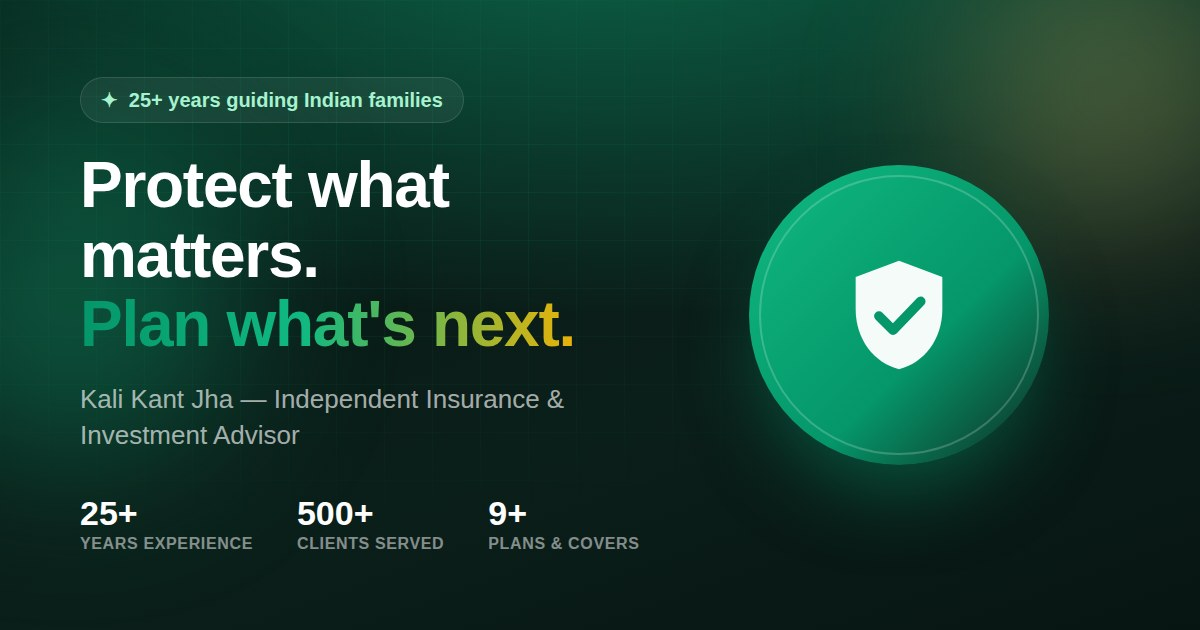
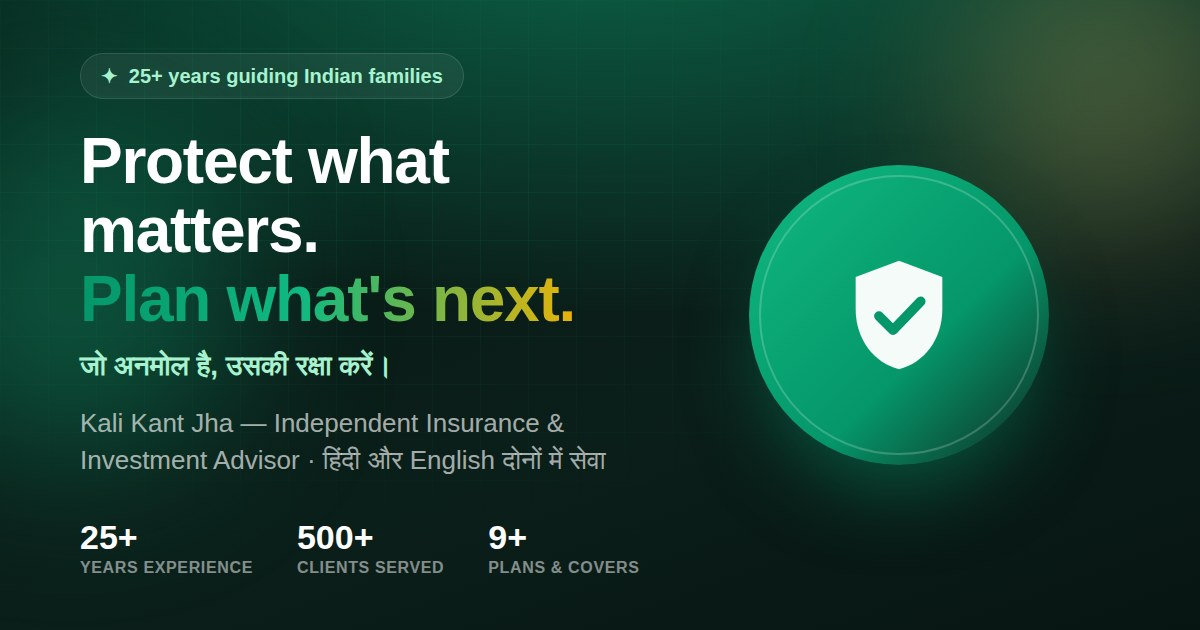
Enhance bilingual support and update layout components
- Updated metadata description to include language support for Hindi and English.
- Added Hindi text snippets across various components for improved accessibility.
- Enhanced About, Contact, Hero, Services, TrustBar, and WhyUs components with Hindi translations.
- Adjusted layout styles for better responsiveness and user experience.

diff --git a/src/lib/site.ts b/src/lib/site.ts
@@ -3,18 +3,36 @@ export const site = {
   shortName: "K.K. Jha",
   business: "Insurance & Investments",
   tagline: "Protect what matters. Plan what's next.",
+  taglineHi: "जो अनमोल है, उसकी रक्षा करें। आगे की योजना बनाएं।",
   subTagline:
     "Independent insurance & investment guidance for Indian families — in plain language, for the long run.",
+  subTaglineHi:
+    "आपके परिवार के लिए सही बीमा और निवेश सलाह — आसान हिंदी में, हर कदम पर साथ।",
   phone: "+919911910284",
   phoneDisplay: "+91 99119 10284",
   whatsappBase: "https://wa.me/919911910284",
   years: "25+",
   clients: "500+",
   location: "India",
+  languages: "हिंदी · English",
 };
 
 export const waLink = (message: string) =>
   `${site.whatsappBase}?text=${encodeURIComponent(message)}`;
+
+// Small bilingual snippets reused across sections — kept in one place so the
+// Hindi stays consistent everywhere it appears.
+export const hi = {
+  trustEyebrow: "प्राधिकृत भागीदार और प्रमाणित सलाहकार",
+  hindiNote: "हिंदी में भी बात कर सकते हैं",
+  aboutQuote:
+    "“ग्राहक का भरोसा ही सबसे बड़ी कमाई है — यही सोच लेकर 25 साल से काम कर रहा हूँ।”",
+  aboutQuoteBy: "— काली कांत झा",
+  servicesEyebrow: "हर ज़रूरत के लिए एक भरोसेमंद सलाहकार",
+  whyUsEyebrow: "परिवारों का भरोसा, हमारी पहचान",
+  contactHeading: "आज ही जुड़ें — एक मैसेज दूर।",
+  footerLine: "आपके परिवार की सुरक्षा, हमारी ज़िम्मेदारी।",
+};
 
 export const credentials = [
   {
@@ -138,5 +156,9 @@ export const faqs = [
   {
     q: "How quickly can I get a quote?",
     a: "Message me on WhatsApp with what you're looking for and I'll usually respond with options within the day.",
+  },
+  {
+    q: "क्या मैं हिंदी में बात कर सकता/सकती हूँ? (Can I talk in Hindi?)",
+    a: "बिल्कुल! आप हिंदी या अंग्रेज़ी, जिस भाषा में सहज हों उसमें WhatsApp पर बात कर सकते हैं — हर प्लान आसान भाषा में समझाया जाएगा। (Absolutely — chat in Hindi or English on WhatsApp, whichever you're comfortable with, and every plan will be explained in plain language.)",
   },
 ];

diff --git a/src/components/Contact.tsx b/src/components/Contact.tsx
@@ -1,5 +1,5 @@
-import { MessageCircle, Phone, MapPin, Clock } from "lucide-react";
-import { site, waLink } from "@/lib/site";
+import { MessageCircle, Phone, MapPin, Clock, Languages } from "lucide-react";
+import { hi, site, waLink } from "@/lib/site";
 
 export default function Contact() {
   return (
@@ -15,6 +15,9 @@ export default function Contact() {
           Your family&rsquo;s financial safety net,
           <br className="hidden sm:block" /> one message away.
         </h2>
+        <p lang="hi" className="mt-3 text-lg font-medium text-brand-300 sm:text-xl">
+          {hi.contactHeading}
+        </p>
         <p className="mx-auto mt-5 max-w-xl text-base leading-relaxed text-white/65 sm:text-lg">
           Send a WhatsApp message with what you&rsquo;re looking for — a
           quote, a renewal, or just a question — and get a real reply, fast.
@@ -39,10 +42,11 @@ export default function Contact() {
           </a>
         </div>
 
-        <div className="mx-auto mt-14 grid max-w-2xl grid-cols-1 gap-4 border-t border-white/10 pt-8 sm:grid-cols-3">
+        <div className="mx-auto mt-14 grid max-w-3xl grid-cols-2 gap-4 border-t border-white/10 pt-8 sm:grid-cols-4">
           <InfoItem icon={<Phone className="h-4 w-4" />} label="Phone / WhatsApp" value={site.phoneDisplay} />
           <InfoItem icon={<MapPin className="h-4 w-4" />} label="Serving" value="Clients across India" />
           <InfoItem icon={<Clock className="h-4 w-4" />} label="Response time" value="Usually within a day" />
+          <InfoItem icon={<Languages className="h-4 w-4" />} label="Languages" value={site.languages} />
         </div>
       </div>
     </section>

diff --git a/src/components/Hero.tsx b/src/components/Hero.tsx
@@ -11,7 +11,7 @@ import {
   TrendingUp,
   Users2,
 } from "lucide-react";
-import { site, waLink } from "@/lib/site";
+import { hi, site, waLink } from "@/lib/site";
 
 export default function Hero() {
   return (
@@ -43,7 +43,15 @@ export default function Hero() {
             </h1>
 
             <p
-              className="animate-fade-up mt-6 max-w-xl text-base leading-relaxed text-white/70 sm:text-lg"
+              className="animate-fade-up mt-4 max-w-xl text-lg leading-relaxed text-brand-200/90 sm:text-xl"
+              style={{ animationDelay: "0.09s" }}
+              lang="hi"
+            >
+              {site.taglineHi}
+            </p>
+
+            <p
+              className="animate-fade-up mt-4 max-w-xl text-base leading-relaxed text-white/70 sm:text-lg"
               style={{ animationDelay: "0.12s" }}
             >
               {site.subTagline} Real advice from {site.name}, an independent
@@ -72,6 +80,17 @@ export default function Hero() {
                 {site.phoneDisplay}
               </a>
             </div>
+
+            <p
+              className="animate-fade-up mt-4 flex items-center gap-1.5 text-xs font-medium text-white/50"
+              style={{ animationDelay: "0.21s" }}
+            >
+              <span className="text-brand-400" lang="hi">
+                {hi.hindiNote}
+              </span>
+              <span aria-hidden="true">·</span>
+              <span>Hindi &amp; English, whatever&rsquo;s easier for you</span>
+            </p>
 
             <div
               className="animate-fade-up mt-14 grid w-full grid-cols-3 gap-4 border-t border-white/10 pt-8 sm:max-w-lg"

diff --git a/src/app/layout.tsx b/src/app/layout.tsx
@@ -12,7 +12,7 @@ const siteUrl =
 export const metadata: Metadata = {
   metadataBase: new URL(siteUrl),
   title: `${site.name} — ${site.business}`,
-  description: `${site.subTagline} ${site.years} years of experience, ${site.clients} clients served. Talk to ${site.shortName} on WhatsApp for life, health, motor & travel insurance and mutual funds.`,
+  description: `${site.subTagline} ${site.years} years of experience, ${site.clients} clients served. Talk to ${site.shortName} on WhatsApp (Hindi & English) for life, health, motor & travel insurance and mutual funds.`,
   keywords: [
     "insurance agent",
     "LIC advisor",
@@ -22,6 +22,12 @@ export const metadata: Metadata = {
     "Policybazaar",
     "Bajaj Capital",
     site.name,
+    "बीमा सलाहकार",
+    "बीमा एजेंट",
+    "जीवन बीमा",
+    "स्वास्थ्य बीमा",
+    "म्यूचुअल फंड सलाहकार",
+    "एलआईसी एजेंट",
   ],
   openGraph: {
     title: `${site.name} — ${site.business}`,

diff --git a/src/components/Footer.tsx b/src/components/Footer.tsx
@@ -1,5 +1,5 @@
 import { Shield, MessageCircle, Phone } from "lucide-react";
-import { site, waLink } from "@/lib/site";
+import { hi, site, waLink } from "@/lib/site";
 
 export default function Footer() {
   return (
@@ -38,7 +38,11 @@ export default function Footer() {
           </div>
         </div>
 
-        <p className="mt-6 text-center text-[11px] leading-relaxed text-white/35 sm:text-left">
+        <p lang="hi" className="mt-6 text-center text-xs font-medium text-brand-300/80 sm:text-left">
+          {hi.footerLine}
+        </p>
+
+        <p className="mt-3 text-center text-[11px] leading-relaxed text-white/35 sm:text-left">
           © {new Date().getFullYear()} {site.name} — {site.business}. All
           product names, insurer names &amp; logos referenced belong to
           their respective owners. Insurance is the subject matter of

diff --git a/src/components/Services.tsx b/src/components/Services.tsx
@@ -10,7 +10,7 @@ import {
   Users,
   type LucideIcon,
 } from "lucide-react";
-import { services, waLink } from "@/lib/site";
+import { hi, services, waLink } from "@/lib/site";
 
 const iconMap: Record<string, LucideIcon> = {
   "shield-heart": HeartHandshake,
@@ -41,6 +41,9 @@ export default function Services() {
           <h2 className="font-display mt-3 text-3xl font-bold tracking-tight text-ink-900 sm:text-4xl">
             One advisor, every plan you need
           </h2>
+          <p lang="hi" className="mt-2 text-sm font-medium text-brand-600">
+            {hi.servicesEyebrow}
+          </p>
           <p className="mt-4 text-base leading-relaxed text-ink-700/70 sm:text-lg">
             From your first health cover to your family&rsquo;s retirement
             fund — get it all sorted through a single trusted relationship.

diff --git a/src/components/TrustBar.tsx b/src/components/TrustBar.tsx
@@ -1,5 +1,5 @@
 import { Award, BadgeCheck, Building2, ShieldCheck } from "lucide-react";
-import { credentials } from "@/lib/site";
+import { credentials, hi } from "@/lib/site";
 
 const badgeIcons = [ShieldCheck, BadgeCheck, Award, Building2];
 
@@ -9,6 +9,10 @@ export default function TrustBar() {
       <div className="mx-auto max-w-7xl px-5 sm:px-8">
         <p className="mb-6 text-center text-xs font-semibold uppercase tracking-widest text-ink-700/50">
           Authorised partner &amp; certified advisor
+          <span className="mx-2 text-ink-900/15">•</span>
+          <span lang="hi" className="normal-case tracking-normal text-ink-700/45">
+            {hi.trustEyebrow}
+          </span>
         </p>
         <div className="grid grid-cols-2 gap-3 sm:grid-cols-4 sm:gap-4">
           {credentials.map((c, i) => {

diff --git a/src/components/About.tsx b/src/components/About.tsx
@@ -6,7 +6,7 @@ import {
   ShieldCheck,
   Users2,
 } from "lucide-react";
-import { site } from "@/lib/site";
+import { hi, site } from "@/lib/site";
 
 const points = [
   {
@@ -72,6 +72,16 @@ export default function About() {
               <span className="text-xs font-bold text-ink-900">
                 {site.years} yrs experience
               </span>
+            </div>
+
+            {/* Hindi motto */}
+            <div className="mt-8 rounded-2xl border-l-4 border-brand-500 bg-white p-4 shadow-sm">
+              <p lang="hi" className="text-[13px] font-medium leading-relaxed text-ink-800">
+                {hi.aboutQuote}
+              </p>
+              <p className="mt-1.5 text-[11px] font-semibold text-brand-600">
+                {hi.aboutQuoteBy}
+              </p>
             </div>
           </div>
 

diff --git a/src/components/WhyUs.tsx b/src/components/WhyUs.tsx
@@ -1,5 +1,5 @@
 import { History, LifeBuoy, MessageCircle, Users2, type LucideIcon } from "lucide-react";
-import { whyUs } from "@/lib/site";
+import { hi, whyUs } from "@/lib/site";
 
 const iconMap: Record<string, LucideIcon> = {
   history: History,
@@ -22,6 +22,9 @@ export default function WhyUs() {
           <h2 className="font-display mt-3 text-3xl font-bold tracking-tight text-ink-900 sm:text-4xl">
             Advice that actually has your back
           </h2>
+          <p lang="hi" className="mt-2 text-sm font-medium text-brand-600">
+            {hi.whyUsEyebrow}
+          </p>
         </div>
 
         <div className="mt-14 grid grid-cols-1 gap-6 sm:grid-cols-2">
